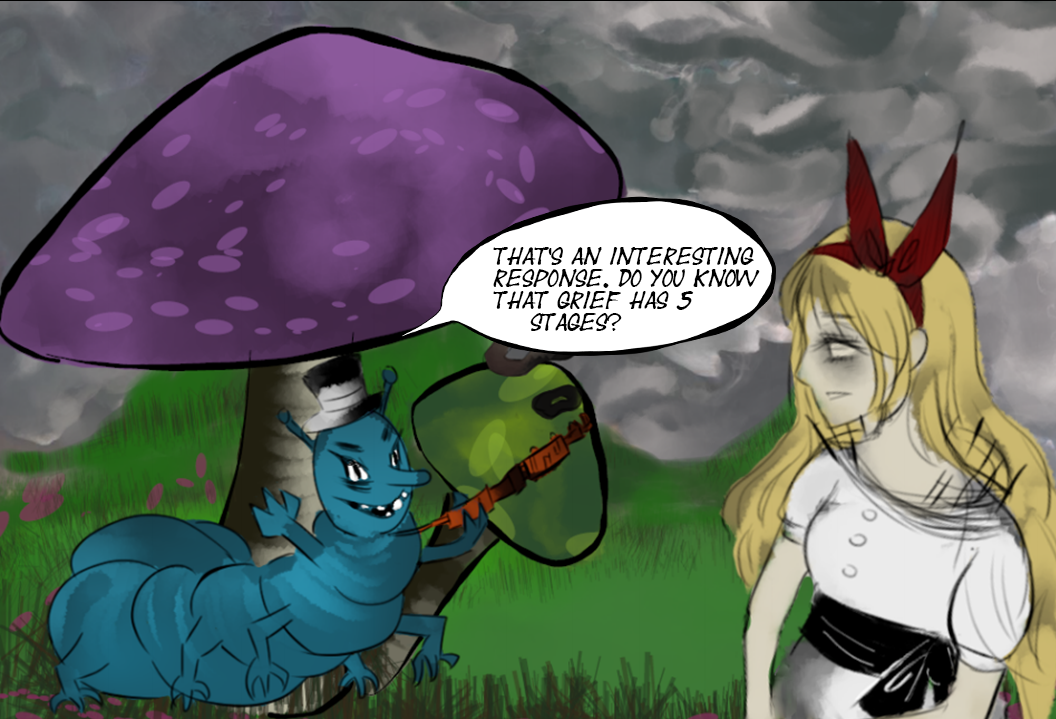
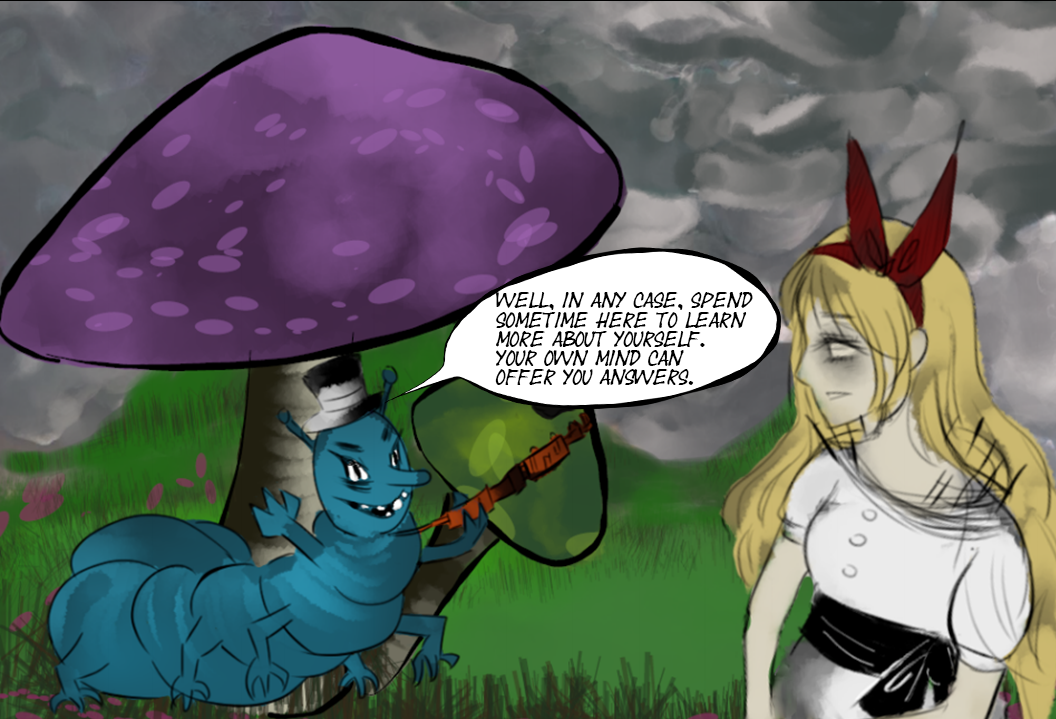
replace pre-hub image and adjust doors in hub

Changed region(s): [[0.375, 0.2754, 0.75, 0.5814]]

diff --git a/alice_hub.html b/alice_hub.html
@@ -18,16 +18,16 @@
 			
 		</div>
 		<div id="queen">
-			<img class="door" src="images/doorEmpty.png" id="queen-image" style="width:160%;">
+			<img class="door" src="images/doorEmpty.png" id="queen-image" style="width:120%;">
 		</div>
 		<div id="cat">
-			<img class="door" src="images/doorCat.png" id="cat-image" style="width:160%;">
+			<img class="door" src="images/doorCat.png" id="cat-image" style="width:100%;">
 		</div>
 		<div id="hatter">
-			<img class="door" src="images/doorMadHatter.png" id="hatter-image" style="width:160%;">
+			<img class="door" src="images/doorMadHatter.png" id="hatter-image" style="width:100%;">
 		</div>
 		<div id="rabbit">
-			<img class="door" src="images/doorRabbit.png" id="rabbit-image" style="width:160%;">
+			<img class="door" src="images/doorRabbit.png" id="rabbit-image" style="width:100%;">
 		</div>
 	</div>
 </body>

diff --git a/alice_14.html b/alice_14.html
@@ -14,17 +14,17 @@
 	<div id="container" style="text-align:center">
 		<img src="images/pre-hub/14.png" style="width:70%">
 		<div id="responses">
-			<p class="response-1">"WHY YOU HAVE TO REMIND ME OF THAT?"</p>
-			<p class="response-2">"I FELT IT COULD BE SOMETHING LIKE THIS..."</p>
+			<p class="response-1">"It looks like a nice and strange place, Mr. Caterpillar."</p>
+			<p class="response-2">"This place isn’t real!"</p>
 		</div>
 	</div>
 </body>
 <script type="text/javascript">
 	$(".response-1").click(function() {
-		chooseOption(-40, 15);
+		chooseOption(100, 15);
 	});
 	$(".response-2").click(function() {
-		chooseOption(40, 15);
+		chooseOption(-100, 15);
 	});
 </script>
 </html>

diff --git a/css/style.css b/css/style.css
@@ -23,7 +23,7 @@ body {
 .response-1 {
 	cursor: hand;
 	position: relative;
-	margin-top: -8%;
+	margin-top: -9%;
 	width: 100%;
 	left: auto;
 	right: auto;
@@ -33,7 +33,7 @@ body {
 .response-2 {
 	cursor: hand;
 	position: relative;
-	margin-top: 2%;
+	margin-top: 4%;
 	width: 100%;
 	left: auto;
 	right: auto;
@@ -149,22 +149,22 @@ body {
 
 #cat {
 	position: relative;
-	left: 30%;
-	margin-top: -27%;
+	left: 32%;
+	margin-top: -25%;
 	width: 10%;
 }
 
 #hatter {
 	position: relative;
-	left: 43%;
-	margin-top: -17%;
+	left: 46%;
+	margin-top: -15%;
 	width: 10%;
 }
 
 #rabbit {
 	position: relative;
-	left: 57%;
-	margin-top: -17%;
+	left: 59%;
+	margin-top: -14%;
 	width: 10%;
 }
 

diff --git a/alice_16.html b/alice_16.html
@@ -12,19 +12,7 @@
 </head>
 <body>
 	<div id="container" style="text-align:center">
-		<img src="images/pre-hub/16.png" style="width:70%">
-		<div id="responses">
-			<p class="response-1">"IT LOOKS LIKE A NICE BUT STRANGE PLACE, MR.CATERPILLAR."</p>
-			<p class="response-2">"THIS PLACE ISN'T REAL."</p>
-		</div>
+		<a href="alice_hub.html"><img src="images/pre-hub/16.png" style="width:70%"></a>
 	</div>
 </body>
-<script type="text/javascript">
-	$(".response-1").click(function() {
-		chooseOption(100, 17);
-	});
-	$(".response-2").click(function() {
-		chooseOption(-100, 17);
-	});
-</script>
 </html>

diff --git a/alice_12.html b/alice_12.html
@@ -12,20 +12,7 @@
 </head>
 <body>
 	<div id="container" style="text-align:center">
-		<img src="images/pre-hub/12.png" style="width:70%">
-		<div id="responses">
-			<p class="response-1">"WHY AM I HERE?"</p>
-			<p class="response-2">"GET STRAIGHT TO THE POINT"</p>
-		</div>
+		<a href="alice_13.html"><img src="images/pre-hub/12.png" style="width:70%"></a>
 	</div>
 </body>
-
-<script type="text/javascript">
-	$(".response-1").click(function() {
-		chooseOption(20, 13);
-	});
-	$(".response-2").click(function() {
-		chooseOption(-20, 13);
-	});
-</script>
 </html>

diff --git a/alice_10.html b/alice_10.html
@@ -12,11 +12,7 @@
 </head>
 <body>
 	<div id="container" style="text-align:center">
-		<img src="images/pre-hub/10.png" style="width:70%">
-		<div id="responses">
-			<p class="response-1" style="margin-top: -9%;">"WHAT IS THIS PLACE, AND WHO ARE YOU, SIR?"</p>
-			<p class="response-2">"SNAP OUT OF IT, WHAT ARE YOU EXACTLY?"</p>
-		</div>
+		<a href="alice_11.html"><img src="images/pre-hub/10.png" style="width:70%"></a>
 	</div>
 </body>
 
